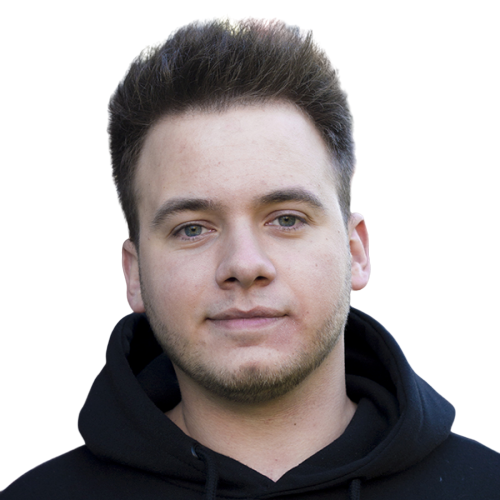
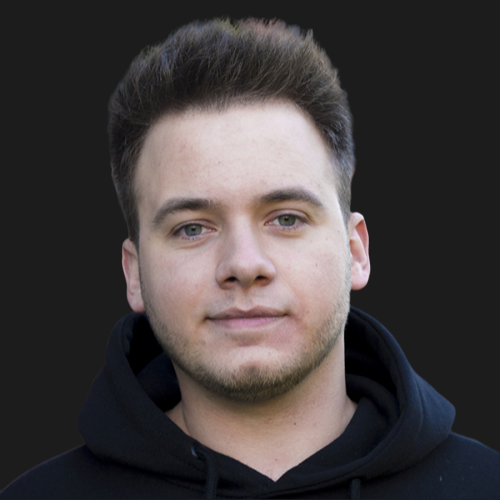
Changed main image & added CSS animation

diff --git a/src/css/general.css b/src/css/general.css
@@ -1,2 +1,2 @@
-@import url("https://fonts.googleapis.com/css?family=Roboto:300,500,900&display=swap&subset=latin-ext");*{margin:0;padding:0;box-sizing:border-box}html{font-size:10px}body{font-family:'Roboto', sans-serif;font-weight:500;font-size:1.5rem}.app{display:block;width:100%;height:100vh;overflow:hidden;color:#1c1c1c;background:#fff}.app__content{position:relative;display:flex;height:100%;justify-content:space-between;align-items:stretch;flex-flow:row wrap}.app__side{flex:0 0 50%;display:flex;justify-content:center;align-items:center;padding:30px}.app__side--dark{color:#fff;background:#1c1c1c}.app__side__content{text-align:center}.app__side__title{font-size:3.8rem;font-weight:300;line-height:1.1;margin:0 0 30px 0}.app__image{position:absolute;width:50%;max-width:500px;bottom:-50px;left:50%;transform:translatex(-50%);pointer-events:none;filter:grayscale(100%);will-change:filter;transition:.3s filter ease}.app__image img{display:block;width:100%;margin:0}.app__image--colored{filter:grayscale(0)}.app__button{display:inline-flex;justify-content:center;align-items:center;text-align:center;height:56px;padding:0 50px;font-size:1.7rem;text-transform:uppercase;text-decoration:none;will-change:transform;transition:.3s transform ease-in-out;color:#1c1c1c;border:2px solid #1c1c1c;border-radius:5px;background:transparent}.app__button--light{color:#fff;border-color:#fff}.app__button:hover{transform:scale(0.95)}@media (max-width: 550px){.app__image{display:none}.app__side{flex:0 0 100%;height:50vh;padding:20px}.app__side__title{font-size:3rem}}
+@import url("https://fonts.googleapis.com/css?family=Roboto:300,500,900&display=swap&subset=latin-ext");*{margin:0;padding:0;box-sizing:border-box}html{font-size:10px}body{font-family:'Roboto', sans-serif;font-weight:500;font-size:1.5rem}.app{display:block;width:100%;height:100vh;overflow:hidden;color:#1c1c1c;background:#fff}.app__content{position:relative;display:flex;height:100%;justify-content:space-between;align-items:stretch;flex-flow:row wrap}.app__side{flex:0 0 50%;display:flex;justify-content:center;align-items:center;padding:30px 130px 30px 30px}.app__side--dark{color:#fff;background:#1c1c1c;padding:30px 30px 30px 130px}.app__side__content{text-align:center}.app__side__title{font-size:3.8rem;font-weight:300;line-height:1.1;margin:0 0 30px 0}.app__image{position:absolute;width:200px;height:200px;top:50%;left:50%;transform:translate(-50%, -50%);background-image:url("./../images/rafaldepa.png");background-size:95%;background-repeat:no-repeat;background-position:center bottom;background-color:#1c1c1c;border:3px solid #fff;border-radius:50%;pointer-events:none;box-shadow:0 0 30px rgba(0,0,0,0.2);filter:grayscale(100%);will-change:transform;transition:.3s transform ease}.app__image--colored{filter:grayscale(0);transform:translate(-50%, -50%) scale(1.1)}.app__button{display:inline-flex;justify-content:center;align-items:center;text-align:center;height:56px;padding:0 50px;font-size:1.7rem;text-transform:uppercase;text-decoration:none;will-change:transform;transition:.3s transform ease-in-out;color:#1c1c1c;border:2px solid #1c1c1c;border-radius:5px;background:transparent}.app__button--light{color:#fff;border-color:#fff}.app__button:hover{transform:scale(0.95)}@media (max-width: 700px){.app__side{flex:0 0 100%;height:50vh;padding:20px 20px 100px 20px}.app__side--dark{padding:100px 20px 20px 20px}.app__side__title{font-size:3rem}}@media (max-width: 400px){.app__side__title{font-size:2.2rem;font-weight:500}.app__button{height:44px;padding:0 30px;font-size:1.5rem}}
 /*# sourceMappingURL=general.css.map */

diff --git a/src/scss/general.scss b/src/scss/general.scss
@@ -48,10 +48,11 @@ body {
         display: flex;
         justify-content: center;
         align-items: center;
-        padding: 30px;
+        padding: 30px 130px 30px 30px;
         &--dark {
             color: $light;
             background: $dark;
+            padding: 30px 30px 30px 130px;
         }
         &__content {
             text-align: center;
@@ -66,22 +67,26 @@ body {
 
     &__image {
         position: absolute;
-        width: 50%;
-        max-width: 500px;
-        bottom: -50px;
+        width: 200px;
+        height: 200px;
+        top: 50%;
         left: 50%;
-        transform: translatex(-50%);
+        transform: translate(-50%, -50%);
+        background-image: url('./../images/rafaldepa.png');
+        background-size: 95%;
+        background-repeat: no-repeat;
+        background-position: center bottom;
+        background-color: #1c1c1c;
+        border: 3px solid #fff;
+        border-radius: 50%;
         pointer-events: none;
+        box-shadow: 0 0 30px rgba(0, 0, 0, 0.2);
         filter: grayscale(100%);
-        will-change: filter;
-        transition: .3s filter ease;
-        img {
-            display: block;
-            width: 100%;
-            margin: 0;
-        }
+        will-change: transform;
+        transition: .3s transform ease;
         &--colored {
             filter: grayscale(0);
+            transform: translate(-50%,-50%) scale(1.1);
         }
     }
 
@@ -111,18 +116,34 @@ body {
     }
 }
 
-@media (max-width: 550px) {
+@media (max-width: 700px) {
     .app {
-        &__image {
-            display: none;
-        }
         &__side {
             flex: 0 0 100%;
             height: 50vh;
-            padding: 20px;
+            padding: 20px 20px 100px 20px;
+            &--dark {
+                padding: 100px 20px 20px 20px;
+            }
             &__title {
                 font-size: 3rem;
             }
+        }
+    }
+}
+
+@media (max-width: 400px) {
+    .app {
+        &__side {
+            &__title {
+                font-size: 2.2rem;
+                font-weight: 500;
+            }
+        }
+        &__button {
+            height: 44px;
+            padding: 0 30px;
+            font-size: 1.5rem;
         }
     }
 }

diff --git a/index.html b/index.html
@@ -19,9 +19,7 @@
 <body>
     <div class="app">
         <div class="app__content">
-            <div class="app__image">
-                <img src="./src/images/rafaldepa.png" alt="Rafał Depa">
-            </div>
+            <div class="app__image"></div>
             <div class="app__side">
                 <div class="app__side__content">
                     <h2 class="app__side__title">Front-End Developer</h2>
